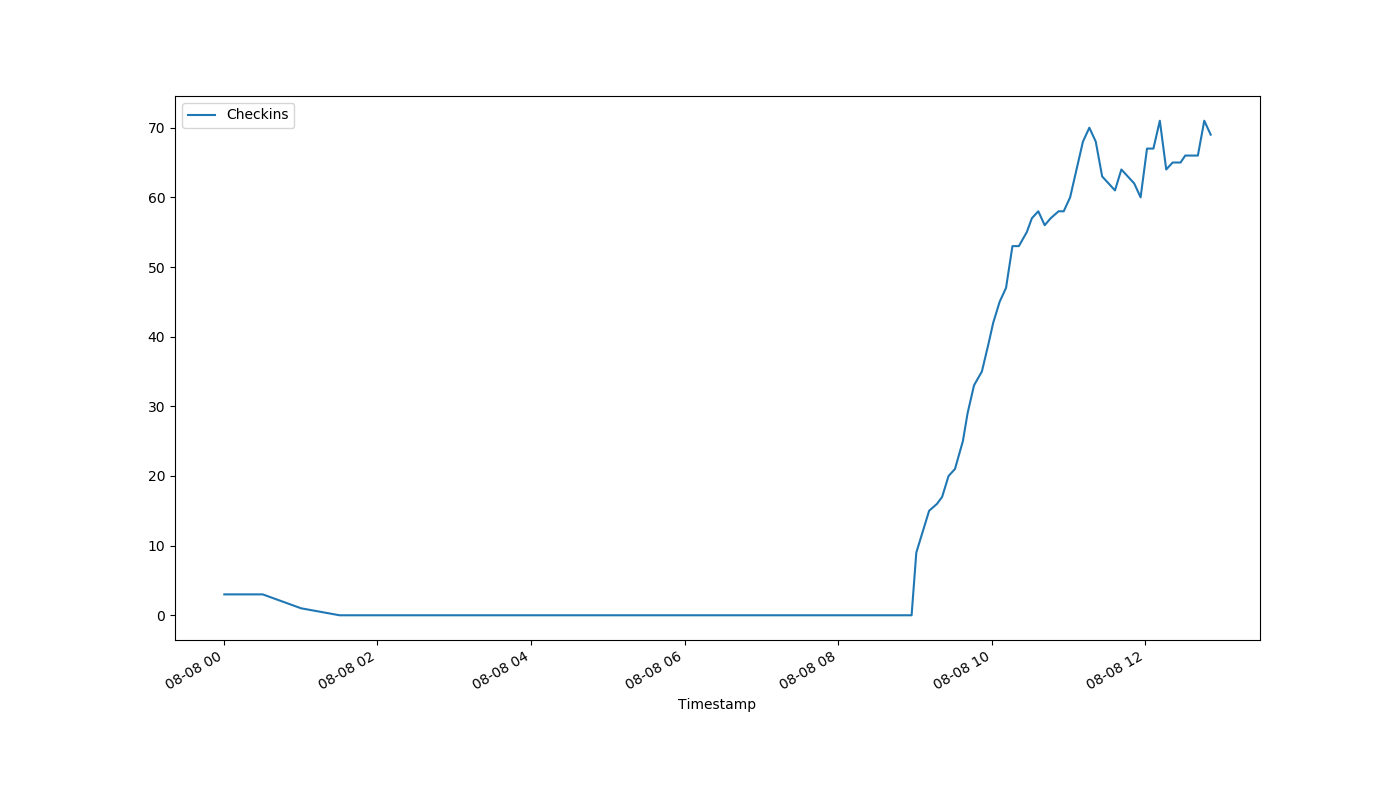
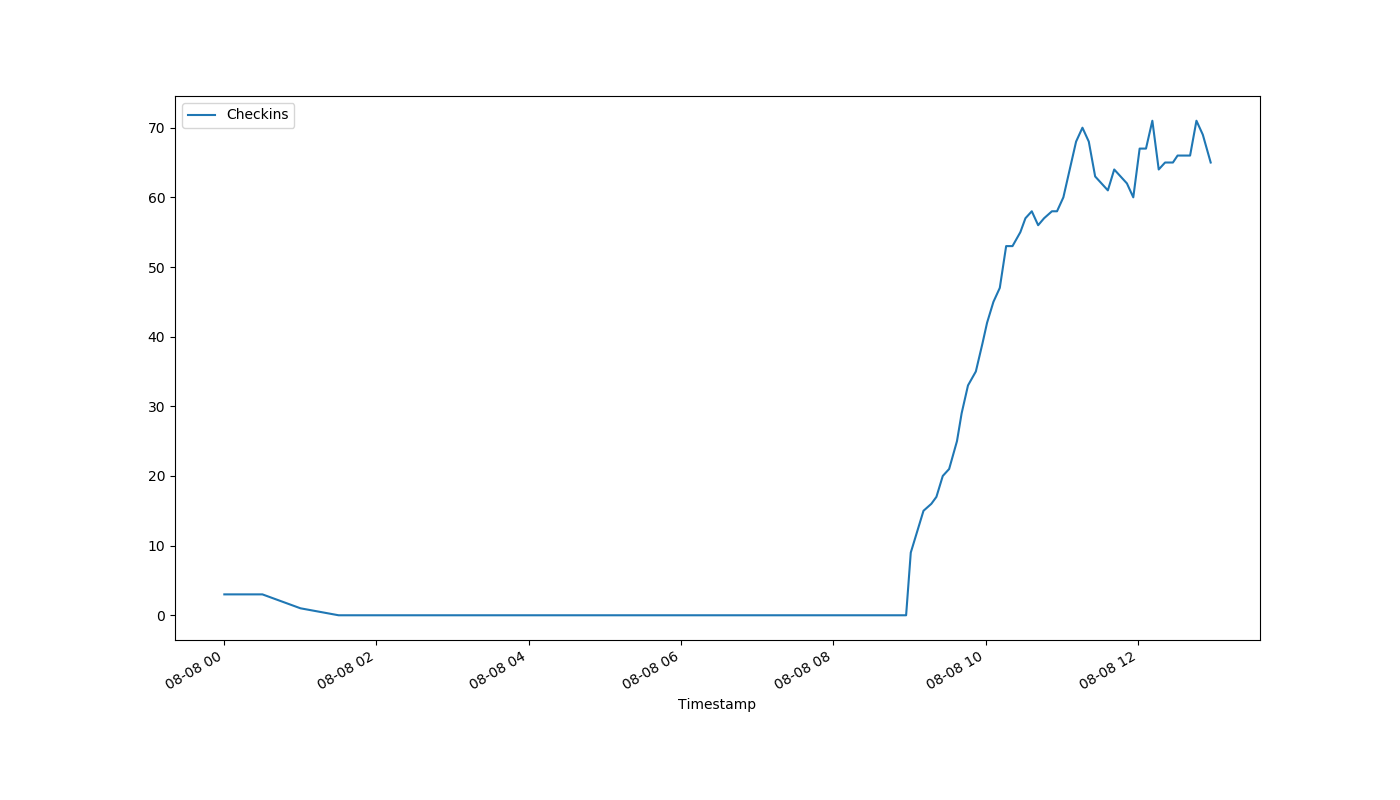
auto-Aug-08-12:59:54

diff --git a/index.html b/index.html
@@ -1,1 +1,1 @@
-<!DOCTYPE html><html><head><meta http-equiv="refresh" content="30"><link rel='stylesheet' href='holmcurrent.css'></head><body><p id='count'>-1</p><div id='graph-wrap'><img id='graph' src='holmgraph-Aug-08.png'></div><p id='updated'>Last updated 12:57:13 / 12:56:02</p></body></html>
+<!DOCTYPE html><html><head><meta http-equiv="refresh" content="30"><link rel='stylesheet' href='holmcurrent.css'></head><body><p id='count'>65</p><div id='graph-wrap'><img id='graph' src='holmgraph-Aug-08.png'></div><p id='updated'>Last updated 12:58:13 / 12:57:13</p></body></html>
